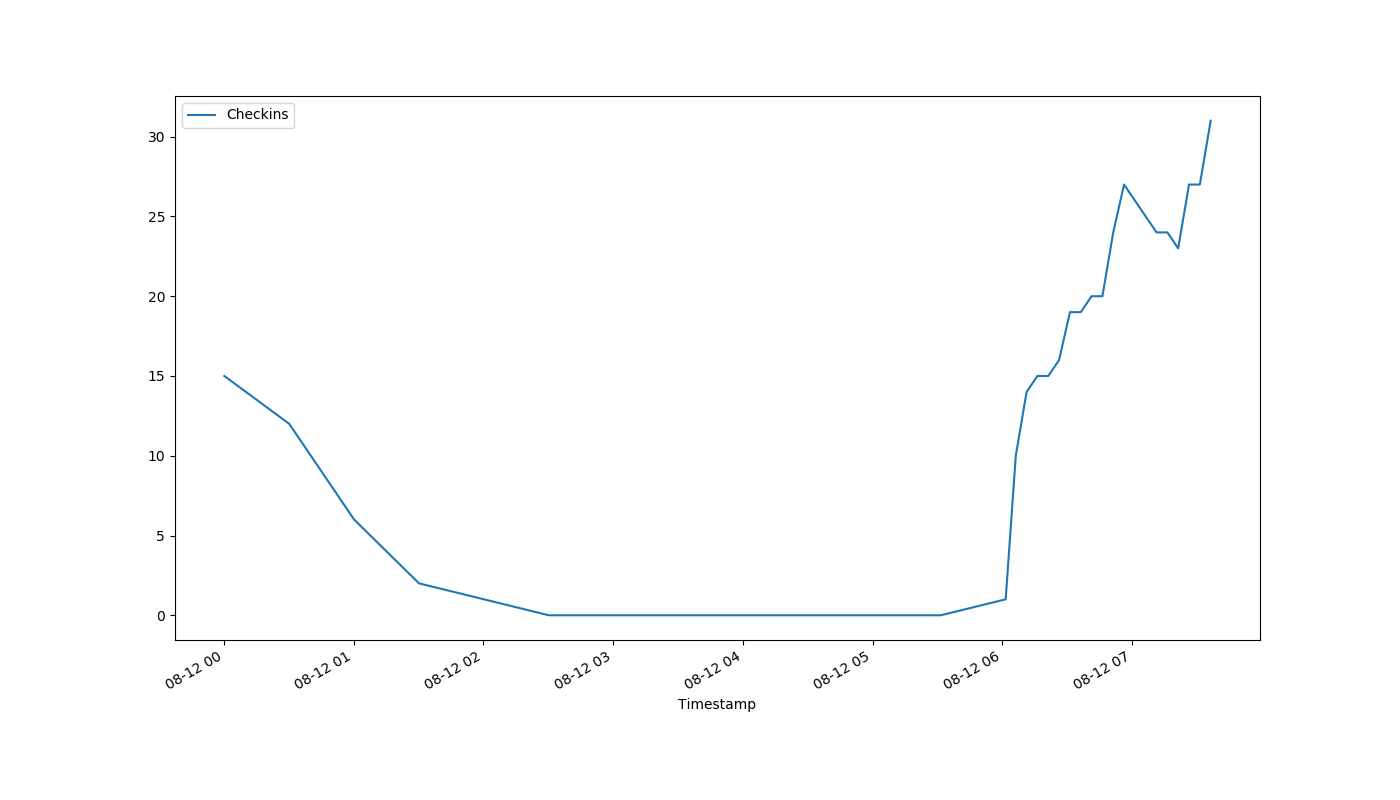
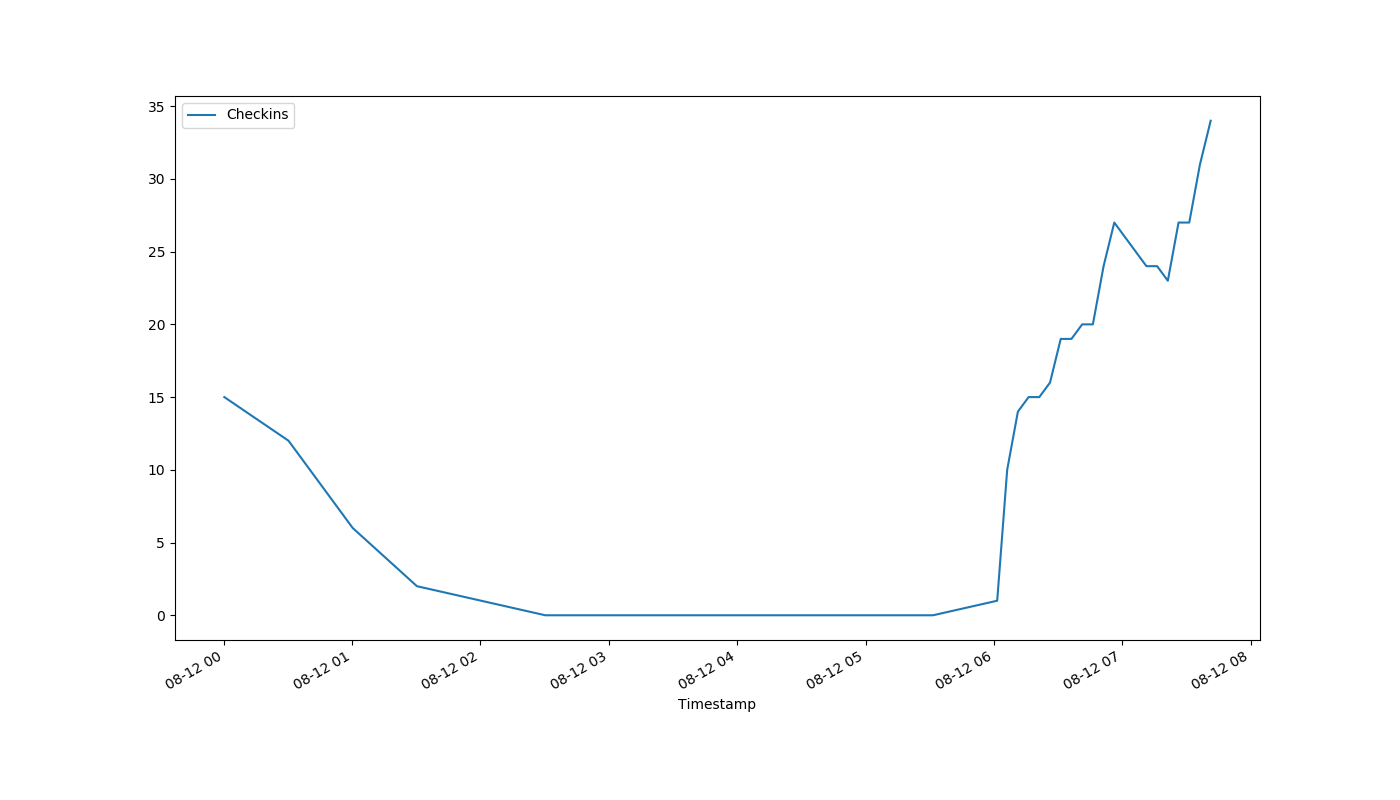
auto-Aug-12-07:43:03

diff --git a/index.html b/index.html
@@ -1,1 +1,1 @@
-<!DOCTYPE html><html><head><meta http-equiv="refresh" content="30"><link rel='stylesheet' href='holmcurrent.css'></head><body><p id='count'>31</p><div id='graph-wrap'><img id='graph' src='holmgraph-Aug-12.png'></div><p id='updated'>Last updated 07:37:14 / 07:36:16</p></body></html>
+<!DOCTYPE html><html><head><meta http-equiv="refresh" content="30"><link rel='stylesheet' href='holmcurrent.css'></head><body><p id='count'>34</p><div id='graph-wrap'><img id='graph' src='holmgraph-Aug-12.png'></div><p id='updated'>Last updated 07:42:14 / 07:41:17</p></body></html>
